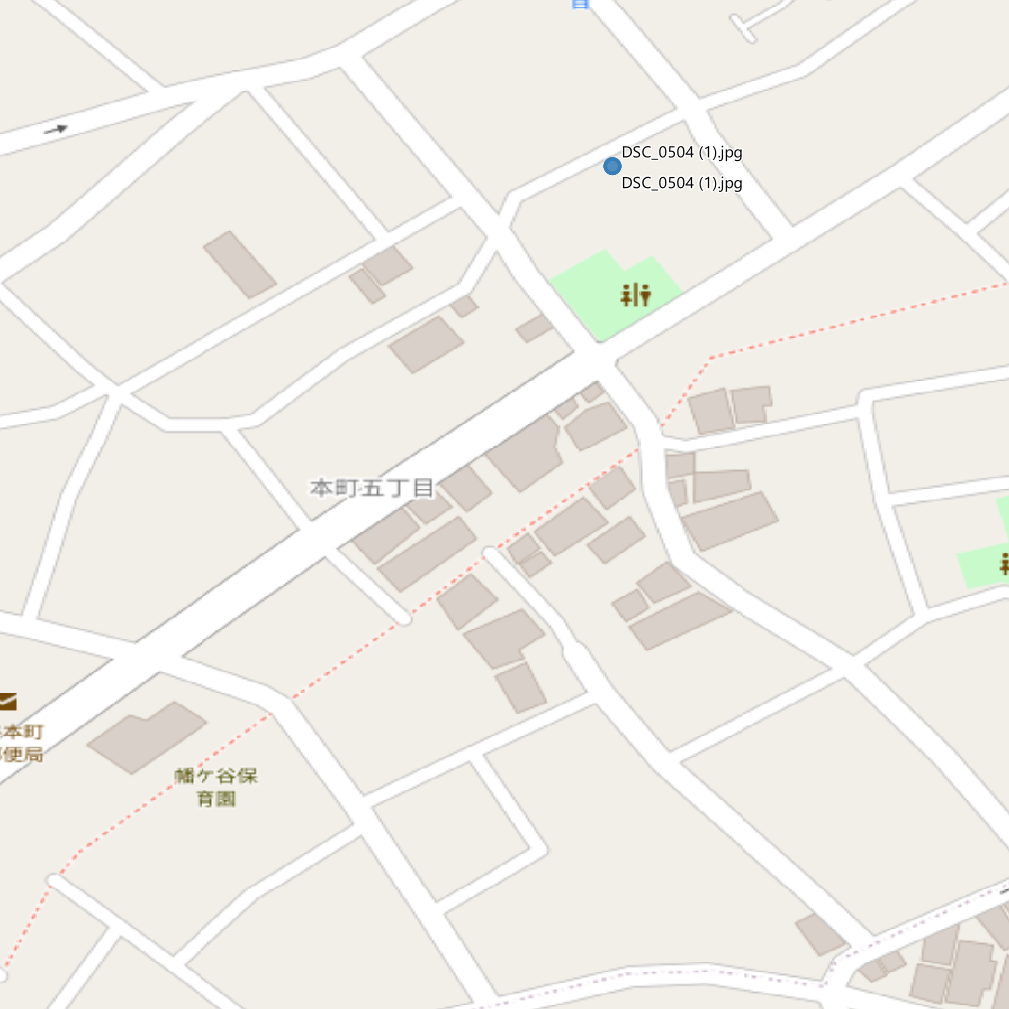
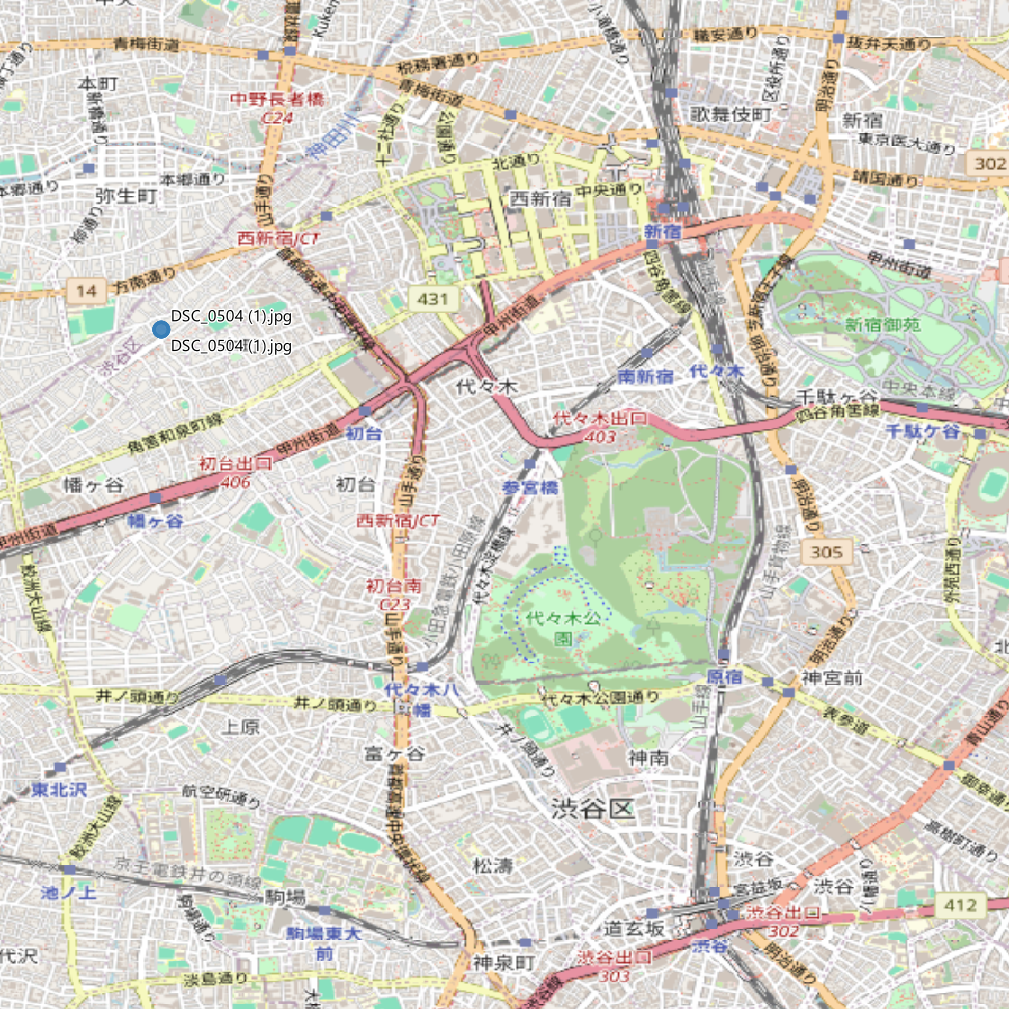
test

diff --git a/src/main.rs b/src/main.rs
@@ -4,7 +4,6 @@ use inquire::Text;
 use exif::{In, Reader, Tag, Value};
 use regex::Regex;
 use reqwest::{header, Client};
-use rusqlite::Connection;
 use serde::{Deserialize, Serialize};
 use std::error::Error;
 use std::fs;
@@ -166,113 +165,34 @@ fn get_image_files_recursive<'a>(
     .boxed()
 }
 
-fn create_gpkg(db_path: &str, records: &[PhotoRecord]) -> rusqlite::Result<()> {
-    if Path::new(db_path).exists() {
-        fs::remove_file(db_path).unwrap_or_default();
-    }
-    let conn = Connection::open(db_path)?;
-    conn.execute("PRAGMA application_id = 1196444487;", [])?;
-    conn.execute("PRAGMA user_version = 10300;", [])?;
-
-    conn.execute(
-        "CREATE TABLE gpkg_spatial_ref_sys (
-            srs_name TEXT NOT NULL,
-            srs_id INTEGER NOT NULL PRIMARY KEY,
-            organization TEXT NOT NULL,
-            organization_coordsys_id INTEGER NOT NULL,
-            definition  TEXT NOT NULL,
-            description TEXT
-        )",
-        [],
-    )?;
-
-    conn.execute(
-        "INSERT INTO gpkg_spatial_ref_sys 
-        (srs_name, srs_id, organization, organization_coordsys_id, definition, description) 
-        VALUES ('WGS 84', 4326, 'EPSG', 4326, 'GEOGCS[\"WGS 84\",DATUM[\"WGS_1984\",SPHEROID[\"WGS 84\",6378137,298.257223563,AUTHORITY[\"EPSG\",\"7030\"]],AUTHORITY[\"EPSG\",\"6326\"]],PRIMEM[\"Greenwich\",0,AUTHORITY[\"EPSG\",\"8901\"]],UNIT[\"degree\",0.0174532925199433,AUTHORITY[\"EPSG\",\"9122\"]],AUTHORITY[\"EPSG\",\"4326\"]]', 'WGS 84')",
-        [],
-    )?;
-
-    conn.execute(
-        "CREATE TABLE gpkg_contents (
-            table_name TEXT NOT NULL PRIMARY KEY,
-            data_type TEXT NOT NULL,
-            identifier TEXT UNIQUE,
-            description TEXT DEFAULT '',
-            last_change DATETIME NOT NULL DEFAULT (strftime('%Y-%m-%dT%H:%M:%fZ','now')),
-            min_x DOUBLE, min_y DOUBLE, max_x DOUBLE, max_y DOUBLE,
-            srs_id INTEGER
-        )",
-        [],
-    )?;
-
-    conn.execute(
-        "INSERT INTO gpkg_contents (table_name, data_type, identifier, srs_id) 
-        VALUES ('box_photos', 'features', 'box_photos', 4326)",
-        [],
-    )?;
-
-    conn.execute(
-        "CREATE TABLE gpkg_geometry_columns (
-            table_name TEXT NOT NULL,
-            column_name TEXT NOT NULL,
-            geometry_type_name TEXT NOT NULL,
-            srs_id INTEGER NOT NULL,
-            z TINYINT NOT NULL,
-            m TINYINT NOT NULL,
-            CONSTRAINT pk_geom_cols PRIMARY KEY (table_name, column_name),
-            CONSTRAINT uk_gc_table_name UNIQUE (table_name),
-            CONSTRAINT fk_gc_tn FOREIGN KEY (table_name) REFERENCES gpkg_contents(table_name),
-            CONSTRAINT fk_gc_srs FOREIGN KEY (srs_id) REFERENCES gpkg_spatial_ref_sys (srs_id)
-        )",
-        [],
-    )?;
-
-    conn.execute(
-        "INSERT INTO gpkg_geometry_columns (table_name, column_name, geometry_type_name, srs_id, z, m) 
-        VALUES ('box_photos', 'geom', 'POINT', 4326, 0, 0)",
-        [],
-    )?;
-
-    conn.execute(
-        "CREATE TABLE box_photos (
-            id INTEGER PRIMARY KEY AUTOINCREMENT,
-            geom BLOB,
-            name TEXT,
-            full_name TEXT,
-            url TEXT,
-            date_taken TEXT
-        )",
-        [],
-    )?;
-
-    let mut stmt = conn.prepare(
-        "INSERT INTO box_photos (geom, name, full_name, url, date_taken) 
-        VALUES (?, ?, ?, ?, ?)"
-    )?;
-
+fn create_geojson(file_path: &str, records: &[PhotoRecord]) -> Result<(), Box<dyn Error>> {
+    let mut features = Vec::new();
     for r in records {
         if let (Some(lat), Some(lon)) = (r.latitude, r.longitude) {
-            let mut blob = Vec::with_capacity(29);
-            blob.extend_from_slice(b"GP");
-            blob.push(0);
-            blob.push(1);
-            blob.extend_from_slice(&4326i32.to_le_bytes());
-            blob.push(1);
-            blob.extend_from_slice(&1u32.to_le_bytes());
-            blob.extend_from_slice(&lon.to_le_bytes());
-            blob.extend_from_slice(&lat.to_le_bytes());
-
-            stmt.execute(rusqlite::params![
-                blob,
-                r.name,
-                r.full_name,
-                r.url,
-                r.date_taken
-            ])?;
+            let feature = serde_json::json!({
+                "type": "Feature",
+                "geometry": {
+                    "type": "Point",
+                    "coordinates": [lon, lat]
+                },
+                "properties": {
+                    "name": &r.name,
+                    "full_name": &r.full_name,
+                    "url": &r.url,
+                    "date_taken": &r.date_taken
+                }
+            });
+            features.push(feature);
         }
     }
+    
+    let feature_collection = serde_json::json!({
+        "type": "FeatureCollection",
+        "features": features
+    });
 
+    let file = fs::File::create(file_path)?;
+    serde_json::to_writer(file, &feature_collection)?;
     Ok(())
 }
 
@@ -352,9 +272,9 @@ async fn main() -> Result<(), Box<dyn Error>> {
         // GPKG出力
         let has_geom = result.iter().any(|r| r.latitude.is_some() && r.longitude.is_some());
         if has_geom {
-            create_gpkg("box_photos.gpkg", &result)?;
-            println!("GPKGファイル(box_photos.gpkg)を作成しました。");
-            println!("QGISで「url」列を使ってアクションやHTMLポップアップで写真を表示できます。");
+            create_geojson("box_photos.geojson", &result)?;
+            println!("GeoJSONファイル(box_photos.geojson)を作成しました。");
+            println!("QGISにドラッグ＆ドロップするだけで、写真の場所を表示できます。");
         } else {
             println!("位置情報付き画像がありません。");
         }

diff --git a/box_photo_geo_url_rs/src/main.rs b/box_photo_geo_url_rs/src/main.rs
@@ -189,6 +189,20 @@ fn create_gpkg(db_path: &str, records: &[PhotoRecord]) -> rusqlite::Result<()> {
     conn.execute(
         "INSERT INTO gpkg_spatial_ref_sys 
         (srs_name, srs_id, organization, organization_coordsys_id, definition, description) 
+        VALUES ('Undefined Cartesian SRS', -1, 'NONE', -1, 'undefined', 'undefined cartesian coordinate reference system')",
+        [],
+    )?;
+
+    conn.execute(
+        "INSERT INTO gpkg_spatial_ref_sys 
+        (srs_name, srs_id, organization, organization_coordsys_id, definition, description) 
+        VALUES ('Undefined Geographic SRS', 0, 'NONE', 0, 'undefined', 'undefined geographic coordinate reference system')",
+        [],
+    )?;
+
+    conn.execute(
+        "INSERT INTO gpkg_spatial_ref_sys 
+        (srs_name, srs_id, organization, organization_coordsys_id, definition, description) 
         VALUES ('WGS 84', 4326, 'EPSG', 4326, 'GEOGCS[\"WGS 84\",DATUM[\"WGS_1984\",SPHEROID[\"WGS 84\",6378137,298.257223563,AUTHORITY[\"EPSG\",\"7030\"]],AUTHORITY[\"EPSG\",\"6326\"]],PRIMEM[\"Greenwich\",0,AUTHORITY[\"EPSG\",\"8901\"]],UNIT[\"degree\",0.0174532925199433,AUTHORITY[\"EPSG\",\"9122\"]],AUTHORITY[\"EPSG\",\"4326\"]]', 'WGS 84')",
         [],
     )?;
@@ -206,11 +220,35 @@ fn create_gpkg(db_path: &str, records: &[PhotoRecord]) -> rusqlite::Result<()> {
         [],
     )?;
 
-    conn.execute(
-        "INSERT INTO gpkg_contents (table_name, data_type, identifier, srs_id) 
-        VALUES ('box_photos', 'features', 'box_photos', 4326)",
-        [],
-    )?;
+    let mut min_x = f64::MAX;
+    let mut min_y = f64::MAX;
+    let mut max_x = f64::MIN;
+    let mut max_y = f64::MIN;
+    let mut has_bounds = false;
+
+    for r in records {
+        if let (Some(lat), Some(lon)) = (r.latitude, r.longitude) {
+            min_x = min_x.min(lon);
+            max_x = max_x.max(lon);
+            min_y = min_y.min(lat);
+            max_y = max_y.max(lat);
+            has_bounds = true;
+        }
+    }
+
+    if has_bounds {
+        conn.execute(
+            "INSERT INTO gpkg_contents (table_name, data_type, identifier, srs_id, min_x, min_y, max_x, max_y) 
+            VALUES ('box_photos', 'features', 'box_photos', 4326, ?, ?, ?, ?)",
+            rusqlite::params![min_x, min_y, max_x, max_y],
+        )?;
+    } else {
+        conn.execute(
+            "INSERT INTO gpkg_contents (table_name, data_type, identifier, srs_id) 
+            VALUES ('box_photos', 'features', 'box_photos', 4326)",
+            [],
+        )?;
+    }
 
     conn.execute(
         "CREATE TABLE gpkg_geometry_columns (
@@ -237,7 +275,7 @@ fn create_gpkg(db_path: &str, records: &[PhotoRecord]) -> rusqlite::Result<()> {
     conn.execute(
         "CREATE TABLE box_photos (
             id INTEGER PRIMARY KEY AUTOINCREMENT,
-            geom BLOB,
+            geom POINT,
             name TEXT,
             full_name TEXT,
             url TEXT,
